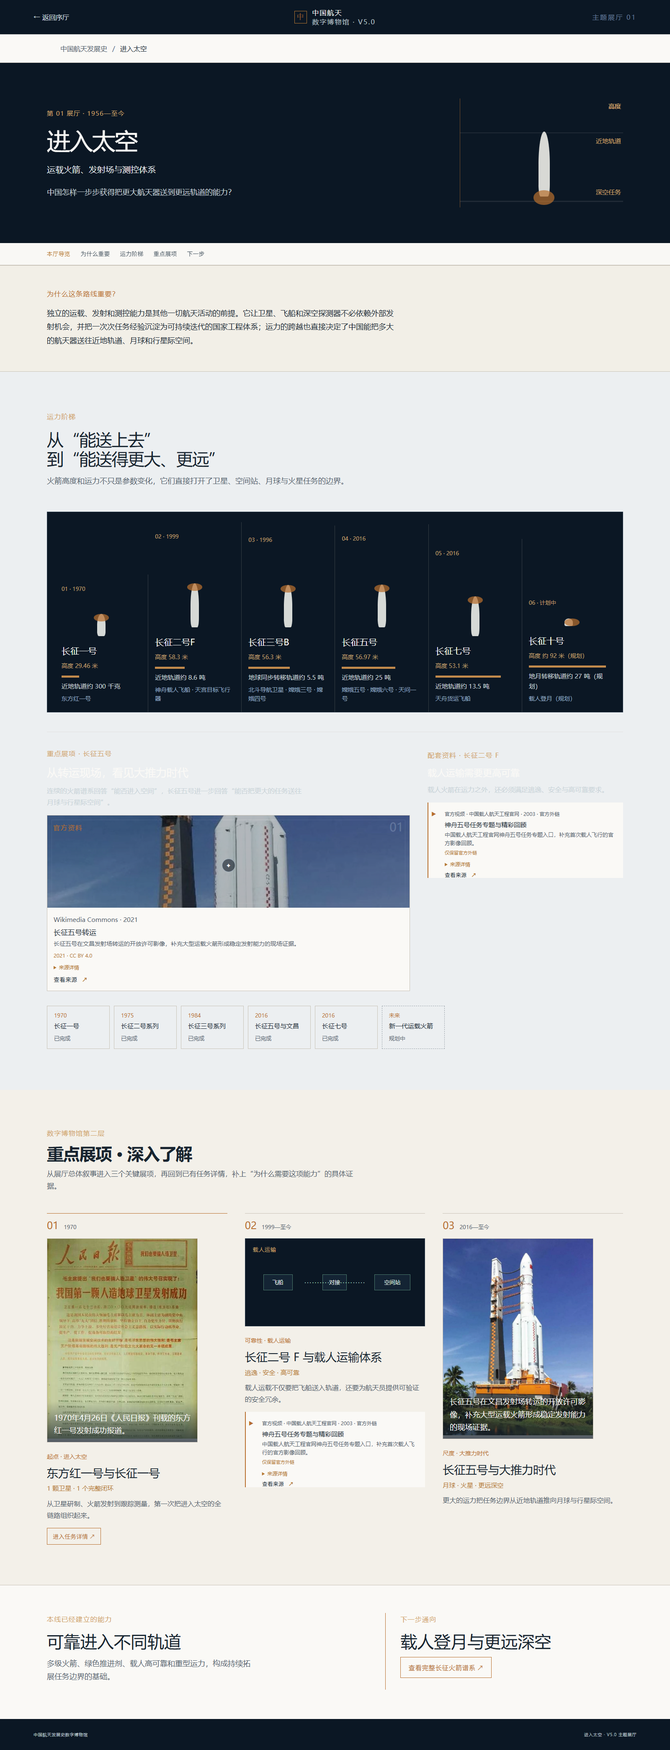
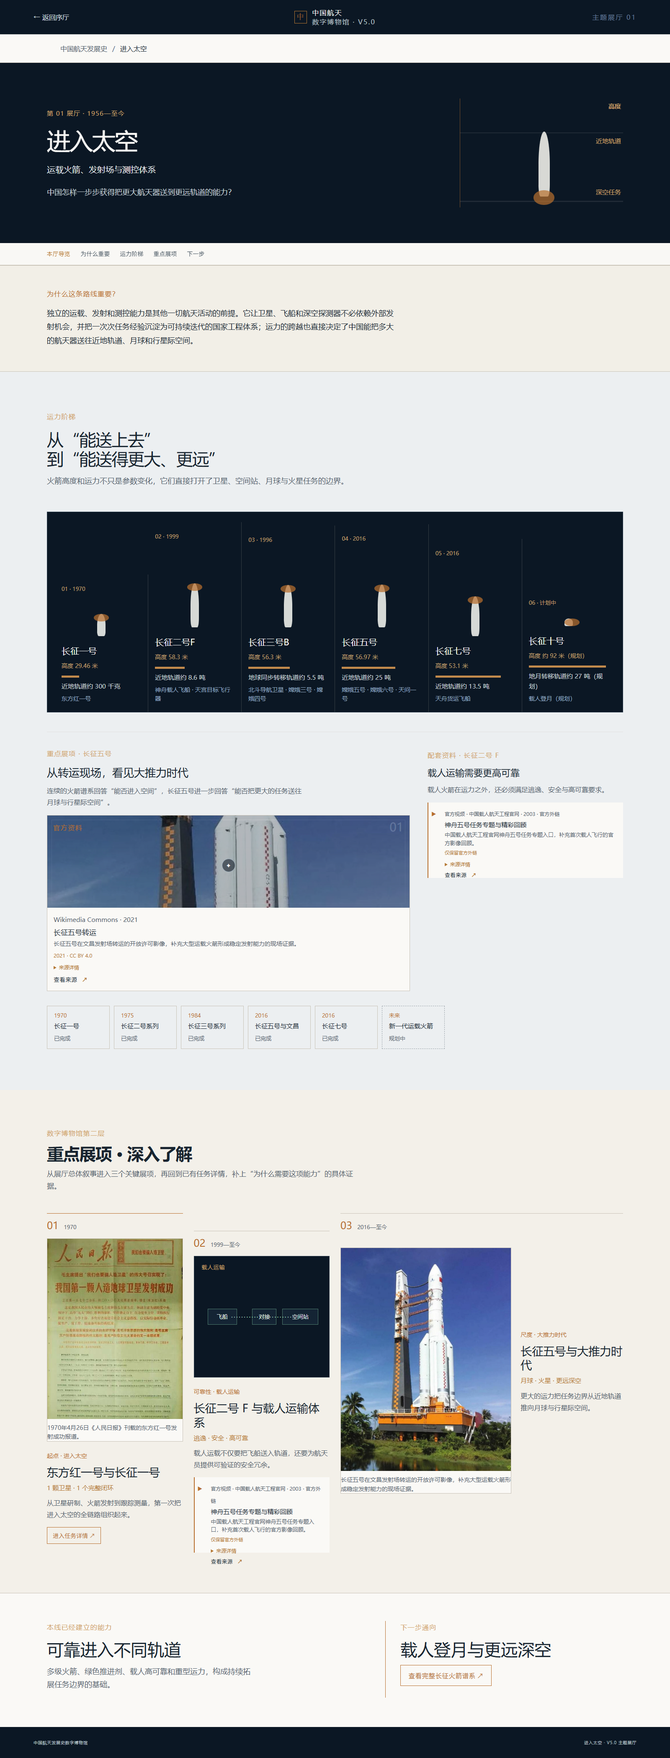
V5.0-F1：完成五厅展品化与视觉层级重构

diff --git a/src/e3.css b/src/e3.css
@@ -318,3 +318,92 @@ button:focus-visible, a:focus-visible { outline-color: var(--museum-bronze); }
   .deep-dive--launch .deep-dive-items, .deep-dive--satellite .deep-dive-items, .deep-dive--human .deep-dive-items, .deep-dive--lunar .deep-dive-items, .deep-dive--planetary .deep-dive-items { grid-template-columns: 1fr; }
   .deep-dive--human .deep-dive-item:nth-child(1) { grid-row: auto; }
 }
+
+/* V5.0-F1：把五厅 Deep Dive 从统一卡片组改为不同的展品构图。 */
+.deep-dive-item .asset-media { width: 100%; min-width: 0; min-height: 0; height: auto; }
+.deep-dive-item .asset-media img { display: block; width: 100%; height: auto; min-height: 0; object-fit: cover; }
+.deep-dive-item .asset-media figcaption { position: static; padding: 10px 0 0; background: none; color: var(--museum-ink-soft); font-size: 14px; line-height: 1.55; }
+.deep-dive-item .deep-dive-schematic { min-height: 240px; }
+.deep-dive-item .deep-dive-copy > p { max-width: 45em; }
+.story-page .asset-media figcaption { position: static; padding: 10px 0 0; background: none; color: var(--museum-ink-soft); font-size: 14px; line-height: 1.55; }
+.grand-story--launch .launch-support-copy h3 { color: var(--museum-ink); }
+.grand-story--launch .launch-support-copy p { color: var(--museum-ink-soft); }
+
+/* 进入太空：小档案 → 中等能力 → 占据半幅的长征五号主展品。 */
+.deep-dive--layout-scale .deep-dive-items { grid-template-columns: repeat(12, minmax(0, 1fr)); gap: 34px 26px; align-items: start; }
+.deep-dive--layout-scale .deep-dive-item:nth-child(1) { grid-column: span 3; }
+.deep-dive--layout-scale .deep-dive-item:nth-child(2) { grid-column: span 3; margin-top: 42px; }
+.deep-dive--layout-scale .deep-dive-item:nth-child(3) { display: grid; grid-template-columns: minmax(0, 1.25fr) minmax(170px, .75fr); grid-column: span 6; gap: 22px; align-items: start; }
+.deep-dive--layout-scale .deep-dive-item:nth-child(3) .deep-dive-meta { grid-column: 1 / -1; }
+.deep-dive--layout-scale .deep-dive-item:nth-child(3) > .asset-media, .deep-dive--layout-scale .deep-dive-item:nth-child(3) > .deep-dive-schematic { grid-column: 1; grid-row: 2; margin-bottom: 0; }
+.deep-dive--layout-scale .deep-dive-item:nth-child(3) .deep-dive-copy { grid-column: 2; grid-row: 2; align-self: center; }
+.deep-dive--layout-scale .deep-dive-item:nth-child(1) .asset-media img { min-height: 230px; }
+.deep-dive--layout-scale .deep-dive-item:nth-child(2) .deep-dive-schematic { min-height: 290px; }
+.deep-dive--layout-scale .deep-dive-item:nth-child(3) .asset-media img { min-height: 410px; }
+
+/* 天基中国：星座关系是入口，云图占更大的横向位置，遥感成为底部主视觉。 */
+.deep-dive--layout-observation .deep-dive-items { grid-template-columns: repeat(12, minmax(0, 1fr)); gap: 38px 28px; }
+.deep-dive--layout-observation .deep-dive-item:nth-child(1) { grid-column: span 4; }
+.deep-dive--layout-observation .deep-dive-item:nth-child(2) { display: grid; grid-template-columns: minmax(0, 1.35fr) minmax(190px, .75fr); grid-column: span 8; gap: 22px; align-items: center; }
+.deep-dive--layout-observation .deep-dive-item:nth-child(2) .deep-dive-meta { grid-column: 1 / -1; }
+.deep-dive--layout-observation .deep-dive-item:nth-child(2) > .deep-dive-schematic { grid-column: 1; grid-row: 2; min-height: 300px; margin-bottom: 0; }
+.deep-dive--layout-observation .deep-dive-item:nth-child(2) .deep-dive-copy { grid-column: 2; grid-row: 2; }
+.deep-dive--layout-observation .deep-dive-item:nth-child(3) { display: grid; grid-template-columns: minmax(260px, .95fr) minmax(0, 1.25fr); grid-column: 1 / -1; gap: 34px; align-items: center; padding-top: 26px; border-top-style: solid; }
+.deep-dive--layout-observation .deep-dive-item:nth-child(3) .deep-dive-meta { grid-column: 1 / -1; }
+.deep-dive--layout-observation .deep-dive-item:nth-child(3) > .asset-media { grid-column: 2; grid-row: 2; margin-bottom: 0; }
+.deep-dive--layout-observation .deep-dive-item:nth-child(3) .deep-dive-copy { grid-column: 1; grid-row: 2; }
+.deep-dive--layout-observation .deep-dive-item:nth-child(3) .asset-media img { min-height: 330px; }
+
+/* 人在太空：三个章节纵向展开，并让视觉位置左—右—全宽变化。 */
+.deep-dive--layout-chapters .deep-dive-items { display: flex; flex-direction: column; gap: 0; }
+.deep-dive--layout-chapters .deep-dive-item { display: grid; grid-template-columns: minmax(120px, .28fr) minmax(220px, .82fr) minmax(240px, 1fr); gap: 28px; width: min(100%, 1080px); padding: 30px 0 42px; }
+.deep-dive--layout-chapters .deep-dive-item:nth-child(1) { align-self: flex-start; }
+.deep-dive--layout-chapters .deep-dive-item:nth-child(2) { align-self: center; width: min(86%, 960px); margin-top: 10px; }
+.deep-dive--layout-chapters .deep-dive-item:nth-child(3) { align-self: flex-end; width: min(100%, 1160px); margin-top: 10px; grid-template-columns: minmax(140px, .3fr) minmax(280px, 1.2fr) minmax(260px, .85fr); }
+.deep-dive--layout-chapters .deep-dive-item > .deep-dive-meta { grid-column: 1; grid-row: 1; align-self: start; }
+.deep-dive--layout-chapters .deep-dive-item > .asset-media, .deep-dive--layout-chapters .deep-dive-item > .deep-dive-schematic { grid-column: 2; grid-row: 1; margin-bottom: 0; }
+.deep-dive--layout-chapters .deep-dive-item > .deep-dive-copy { grid-column: 3; grid-row: 1; align-self: center; }
+.deep-dive--layout-chapters .deep-dive-item:nth-child(2) > .deep-dive-schematic { grid-column: 3; }
+.deep-dive--layout-chapters .deep-dive-item:nth-child(2) > .deep-dive-copy { grid-column: 2; }
+.deep-dive--layout-chapters .deep-dive-item:nth-child(3) > .asset-media { grid-column: 2; }
+.deep-dive--layout-chapters .deep-dive-item:nth-child(3) > .deep-dive-copy { grid-column: 3; }
+.deep-dive--layout-chapters .deep-dive-item:nth-child(1) .asset-media img { min-height: 360px; }
+.deep-dive--layout-chapters .deep-dive-item:nth-child(3) .asset-media img { min-height: 300px; }
+
+/* 奔向月球：把三个展项排成带高度差的绕—落—回路线。 */
+.deep-dive--layout-route .deep-dive-items { position: relative; grid-template-columns: repeat(3, minmax(0, 1fr)); gap: 34px; }
+.deep-dive--layout-route .deep-dive-items::before { content: ''; position: absolute; left: 4%; right: 4%; top: 49px; border-top: 1px solid color-mix(in srgb, var(--hall-color) 48%, transparent); }
+.deep-dive--layout-route .deep-dive-item { position: relative; background: transparent; }
+.deep-dive--layout-route .deep-dive-item:nth-child(1) { padding-right: 24px; }
+.deep-dive--layout-route .deep-dive-item:nth-child(2) { margin-top: 72px; padding: 16px 24px 0; border-left: 1px solid var(--museum-line); border-right: 1px solid var(--museum-line); }
+.deep-dive--layout-route .deep-dive-item:nth-child(3) { margin-top: 26px; padding-left: 24px; border-top-style: dashed; }
+.deep-dive--layout-route .deep-dive-item:nth-child(1) .asset-media img { min-height: 230px; }
+.deep-dive--layout-route .deep-dive-item:nth-child(2) .asset-media img { min-height: 310px; }
+.deep-dive--layout-route .deep-dive-item:nth-child(3) .asset-media img { min-height: 360px; }
+
+/* 走向行星：首项铺开旅程，第二项落到表面，第三项退到更远的未来。 */
+.deep-dive--layout-distance .deep-dive-items { grid-template-columns: repeat(12, minmax(0, 1fr)); gap: 42px 28px; }
+.deep-dive--layout-distance .deep-dive-item:nth-child(1) { display: grid; grid-template-columns: minmax(0, 1.45fr) minmax(230px, .72fr); grid-column: 1 / -1; gap: 30px; align-items: center; padding-bottom: 20px; }
+.deep-dive--layout-distance .deep-dive-item:nth-child(1) .deep-dive-meta { grid-column: 1 / -1; }
+.deep-dive--layout-distance .deep-dive-item:nth-child(1) > .asset-media { grid-column: 1; grid-row: 2; margin-bottom: 0; }
+.deep-dive--layout-distance .deep-dive-item:nth-child(1) .deep-dive-copy { grid-column: 2; grid-row: 2; }
+.deep-dive--layout-distance .deep-dive-item:nth-child(2) { grid-column: span 7; }
+.deep-dive--layout-distance .deep-dive-item:nth-child(3) { grid-column: span 5; align-self: end; padding: 30px 0 0 28px; border-left: 1px solid var(--museum-line); border-top: 0; }
+.deep-dive--layout-distance .deep-dive-item:nth-child(1) .asset-media img { min-height: 390px; }
+.deep-dive--layout-distance .deep-dive-item:nth-child(2) .asset-media img { min-height: 310px; }
+.deep-dive--layout-distance .deep-dive-item:nth-child(3) .deep-dive-schematic { min-height: 260px; }
+
+@media (max-width: 800px) {
+  .deep-dive--layout-scale .deep-dive-items, .deep-dive--layout-observation .deep-dive-items, .deep-dive--layout-distance .deep-dive-items { grid-template-columns: 1fr; gap: 34px; }
+  .deep-dive--layout-scale .deep-dive-item:nth-child(1), .deep-dive--layout-scale .deep-dive-item:nth-child(2), .deep-dive--layout-scale .deep-dive-item:nth-child(3), .deep-dive--layout-observation .deep-dive-item:nth-child(1), .deep-dive--layout-observation .deep-dive-item:nth-child(2), .deep-dive--layout-observation .deep-dive-item:nth-child(3), .deep-dive--layout-distance .deep-dive-item:nth-child(1), .deep-dive--layout-distance .deep-dive-item:nth-child(2), .deep-dive--layout-distance .deep-dive-item:nth-child(3) { grid-column: auto; margin-top: 0; padding-left: 0; padding-right: 0; border-left: 0; }
+  .deep-dive--layout-scale .deep-dive-item:nth-child(3), .deep-dive--layout-observation .deep-dive-item:nth-child(2), .deep-dive--layout-observation .deep-dive-item:nth-child(3), .deep-dive--layout-distance .deep-dive-item:nth-child(1) { display: block; }
+  .deep-dive--layout-scale .deep-dive-item:nth-child(3) > .asset-media, .deep-dive--layout-scale .deep-dive-item:nth-child(3) > .deep-dive-schematic, .deep-dive--layout-observation .deep-dive-item:nth-child(2) > .deep-dive-schematic, .deep-dive--layout-observation .deep-dive-item:nth-child(3) > .asset-media, .deep-dive--layout-distance .deep-dive-item:nth-child(1) > .asset-media { margin-bottom: 18px; }
+  .deep-dive--layout-chapters .deep-dive-item { display: block; width: 100%; margin: 0; padding: 24px 0 34px; }
+  .deep-dive--layout-chapters .deep-dive-item > .deep-dive-meta, .deep-dive--layout-chapters .deep-dive-item > .asset-media, .deep-dive--layout-chapters .deep-dive-item > .deep-dive-schematic, .deep-dive--layout-chapters .deep-dive-item > .deep-dive-copy { display: block; }
+  .deep-dive--layout-chapters .deep-dive-item > .asset-media, .deep-dive--layout-chapters .deep-dive-item > .deep-dive-schematic { margin-bottom: 18px; }
+  .deep-dive--layout-route .deep-dive-items { grid-template-columns: 1fr; gap: 0; }
+  .deep-dive--layout-route .deep-dive-items::before { left: 18px; right: auto; top: 38px; bottom: 38px; border-top: 0; border-left: 1px solid color-mix(in srgb, var(--hall-color) 48%, transparent); }
+  .deep-dive--layout-route .deep-dive-item:nth-child(1), .deep-dive--layout-route .deep-dive-item:nth-child(2), .deep-dive--layout-route .deep-dive-item:nth-child(3) { margin: 0; padding: 22px 0 34px 42px; border: 0; }
+  .deep-dive--layout-route .deep-dive-item:nth-child(1) .asset-media img, .deep-dive--layout-route .deep-dive-item:nth-child(2) .asset-media img, .deep-dive--layout-route .deep-dive-item:nth-child(3) .asset-media img, .deep-dive--layout-distance .deep-dive-item:nth-child(1) .asset-media img { min-height: 0; }
+  .deep-dive--layout-distance .deep-dive-item:nth-child(3) { align-self: auto; }
+}

diff --git a/src/components/GrandHallStories/LaunchCapabilityStory.jsx b/src/components/GrandHallStories/LaunchCapabilityStory.jsx
@@ -16,7 +16,7 @@ export default function LaunchCapabilityStory({ hall, nodes, onOpenMission }) {
       <StoryTour items={[{ id: 'story-why', label: '为什么重要' }, { id: 'launch-core', label: '运力阶梯' }, { id: 'deep-dive', label: '重点展项' }, { id: 'story-next', label: '下一步' }]} />
       <section className="story-why" id="story-why"><span className="section-kicker">为什么这条路线重要？</span><p>{hall.hallWhyItMatters}</p></section>
       <section className="grand-story grand-story--launch" id="launch-core"><div className="story-heading"><span className="section-kicker">运力阶梯</span><h2>从“能送上去”<br />到“能送得更大、更远”</h2><p>火箭高度和运力不只是参数变化，它们直接打开了卫星、空间站、月球与火星任务的边界。</p></div><div className="launch-ladder">{selected.map((rocket, index) => <article className={`launch-step launch-step-${index + 1}`} key={rocket.name}><span>{String(index + 1).padStart(2, '0')} · {rocket.firstFlight}</span><div className="rocket-silhouette" style={{ '--rocket-height': `${Math.max(44, Math.min(175, Number.parseFloat(rocket.height) * 1.8))}px` }} aria-hidden="true" /><h3>{rocket.name}</h3><small>高度 {rocket.height}</small><div className="payload-bar" style={{ '--payload-width': `${22 + index * 15}%` }} /><p>{rocket.payload}</p><small>{rocket.missions.join(' · ')}</small></article>)}</div><div className="launch-support-media" id="launch-evidence"><div className="launch-support-copy"><span className="section-kicker">重点展项 · 长征五号</span><h3>从转运现场，看见大推力时代</h3><p>连续的火箭谱系回答“能否进入空间”，长征五号进一步回答“能否把更大的任务送往月球与行星际空间”。</p><StoryMedia ids={['open-long-march-5-rollout-2021']} mode="feature" color={hall.color} /></div><div className="launch-support-copy launch-support-copy--compact"><span className="section-kicker">配套资料 · 长征二号 F</span><h3>载人运输需要更高可靠</h3><p>载人火箭在运力之外，还必须满足逃逸、安全与高可靠要求。</p><StoryMedia ids={['media-human-shenzhou5-flight-review']} mode="compact" color={hall.color} /></div></div><div className="story-node-strip">{nodes.filter((node) => ['长征一号', '长征二号系列', '长征三号系列', '长征五号与文昌', '长征七号', '新一代运载火箭'].includes(node.name)).map((node) => <span className={`story-node story-node--${node.status}`} key={node.id}><b>{node.year}</b>{node.name}<em>{node.status === 'planned' ? '规划中' : '已完成'}</em></span>)}</div></section>
-      <DeepDiveSection variant="launch" hall={hall} onOpenMission={onOpenMission} items={[{ year: '1970', label: '起点 · 进入太空', title: '东方红一号与长征一号', metric: '1 颗卫星 · 1 个完整闭环', description: '从卫星研制、火箭发射到跟踪测量，第一次把进入太空的全链路组织起来。', assetId: 'curated-dongfanghong-1-news-1970', missionId: 'origin-one' }, { year: '1999—至今', label: '可靠性 · 载人运输', title: '长征二号 F 与载人运输体系', metric: '逃逸 · 安全 · 高可靠', description: '载人运载不仅要把飞船送入轨道，还要为航天员提供可验证的安全冗余。', diagram: 'rendezvous', diagramLabel: '载人运输', mediaIds: ['media-human-shenzhou5-flight-review'] }, { year: '2016—至今', label: '尺度 · 大推力时代', title: '长征五号与大推力时代', metric: '月球 · 火星 · 更远深空', description: '更大的运力把任务边界从近地轨道推向月球与行星际空间。', assetId: 'open-long-march-5-rollout-2021' }]} />
+      <DeepDiveSection variant="launch" layout="scale" hall={hall} onOpenMission={onOpenMission} items={[{ year: '1970', label: '起点 · 进入太空', title: '东方红一号与长征一号', metric: '1 颗卫星 · 1 个完整闭环', description: '从卫星研制、火箭发射到跟踪测量，第一次把进入太空的全链路组织起来。', assetId: 'curated-dongfanghong-1-news-1970', missionId: 'origin-one' }, { year: '1999—至今', label: '可靠性 · 载人运输', title: '长征二号 F 与载人运输体系', metric: '逃逸 · 安全 · 高可靠', description: '载人运载不仅要把飞船送入轨道，还要为航天员提供可验证的安全冗余。', diagram: 'rendezvous', diagramLabel: '载人运输', mediaIds: ['media-human-shenzhou5-flight-review'] }, { year: '2016—至今', label: '尺度 · 大推力时代', title: '长征五号与大推力时代', metric: '月球 · 火星 · 更远深空', description: '更大的运力把任务边界从近地轨道推向月球与行星际空间。', assetId: 'open-long-march-5-rollout-2021' }]} />
       <section className="story-tail story-tail--launch" id="story-next"><div><span className="section-kicker">本线已经建立的能力</span><h2>可靠进入不同轨道</h2><p>多级火箭、绿色推进剂、载人高可靠和重型运力，构成持续拓展任务边界的基础。</p></div><div className="story-tail-link"><span className="section-kicker">下一步通向</span><h2>载人登月与更远深空</h2><button type="button" onClick={() => setShowFullGallery((value) => !value)}>{showFullGallery ? '收起完整火箭谱系' : '查看完整长征火箭谱系'} ↗</button></div></section>
       {showFullGallery ? <div className="story-gallery-drawer"><RocketGallery /></div> : null}
     </div>

diff --git a/src/components/GrandHallStories/PlanetaryScaleStory.jsx b/src/components/GrandHallStories/PlanetaryScaleStory.jsx
@@ -12,7 +12,7 @@ export default function PlanetaryScaleStory({ hall, nodes, missions, onOpenMissi
       <StoryTour items={[{ id: 'story-why', label: '为什么重要' }, { id: 'planetary-core', label: '行星际尺度' }, { id: 'deep-dive', label: '绕 · 落 · 巡' }, { id: 'story-next', label: '下一步' }]} />
       <section className="story-why" id="story-why"><span className="section-kicker">为什么这条路线重要？</span><p>{hall.hallWhyItMatters}</p></section>
       <section className="grand-story grand-story--planetary" id="planetary-core"><div className="story-heading"><span className="section-kicker">行星际尺度</span><h2>离开地球，穿越<br />七个月级的行星际飞行</h2><p>这是一条概念尺度示意，非真实比例：距离拉远，通信时延增加，任务需要更多自主导航和环境判断。</p></div><div className="planetary-distance" aria-label="从地球到火星的概念距离示意"><div className="distance-earth"><i />地球</div><div className="distance-moon"><span />月球轨道</div><div className="distance-flight"><b>约七个月级</b><small>地火转移 · 中途修正 · 深空测控</small></div><div className="distance-mars"><i />火星</div><div className="distance-beyond">更远深空</div></div><div className="planetary-anchor-grid" id="planetary-evidence"><article><div><AssetMedia asset={getAssetById('curated-tianwen-206aa3f3bc23')} label="天问一号与火星合影" /><small className="story-media-meta">维基共享资源 / 中国国家航天局供图 · 2021 · 真实任务影像</small></div><div><span>绕 · 火星捕获</span><h3>天问一号</h3><p>完成从地火转移到火星环绕的深空导航。</p><StoryMedia ids={['open-tianwen1-launch-2020']} mode="feature" color={hall.color} /></div></article><article><div><AssetMedia asset={getAssetById('curated-tianwen-16526f52a3ea')} label="祝融号与着陆平台" /><small className="story-media-meta">公开任务影像 · 2021 · 火星表面影像</small></div><div><span>落 · 巡 · 火星表面工作</span><h3>祝融号</h3><p>在乌托邦平原着陆并开展巡视探测。</p><StoryMedia ids={['media-planetary-tianwen-landing-series']} mode="inline" color={hall.color} /><StoryMedia ids={['media-zhurong-motion']} mode="inline" color={hall.color} /></div></article></div>{mission ? <button className="story-mission-link" type="button" onClick={() => onOpenMission(mission.id)}>进入天问一号任务现场 ↗</button> : null}<div className="planetary-future">{nodes.filter((node) => node.status === 'planned').map((node) => <span className="story-node story-node--planned" key={node.id}><b>{node.year}</b>{node.name}<em>规划中</em></span>)}</div></section>
-      <DeepDiveSection variant="planetary" hall={hall} onOpenMission={onOpenMission} items={[{ year: '2020—2021', label: '绕 · 地火转移', title: '天问一号：绕、着、巡', metric: '一次任务完成三步', description: '在更远距离和更长时延条件下，完成转移、捕获、着陆与巡视的连续任务。', assetId: 'curated-tianwen-206aa3f3bc23', mediaIds: ['media-planetary-tianwen-landing-series'], missionId: 'tianwen' }, { year: '2021', label: '巡 · 火星表面工作', title: '祝融号', metric: '自主巡视 · 环境探测', description: '火星车需要在通信间歇中完成移动、避障、观测和状态判断。', assetId: 'curated-tianwen-16526f52a3ea', mediaIds: ['media-zhurong-motion'] }, { year: '下一阶段', label: '距离 · 自主 · 深空测控', title: '下一阶段行星际探索', metric: '更远目标 · 更长等待', description: '小行星、火星采样返回和更远太阳系任务，将把自主导航与深空测控推向更长时间尺度。', diagram: 'deep-space', diagramLabel: '从地月到行星际', mediaIds: ['official-tianwen-science-images-2021'] }]} />
+      <DeepDiveSection variant="planetary" layout="distance" hall={hall} onOpenMission={onOpenMission} items={[{ year: '2020—2021', label: '绕 · 地火转移', title: '天问一号：绕、着、巡', metric: '一次任务完成三步', description: '在更远距离和更长时延条件下，完成转移、捕获、着陆与巡视的连续任务。', assetId: 'curated-tianwen-206aa3f3bc23', mediaIds: ['media-planetary-tianwen-landing-series'], missionId: 'tianwen' }, { year: '2021', label: '巡 · 火星表面工作', title: '祝融号', metric: '自主巡视 · 环境探测', description: '火星车需要在通信间歇中完成移动、避障、观测和状态判断。', assetId: 'curated-tianwen-16526f52a3ea', mediaIds: ['media-zhurong-motion'] }, { year: '下一阶段', label: '距离 · 自主 · 深空测控', title: '下一阶段行星际探索', metric: '更远目标 · 更长等待', description: '小行星、火星采样返回和更远太阳系任务，将把自主导航与深空测控推向更长时间尺度。', diagram: 'deep-space', diagramLabel: '从地月到行星际', mediaIds: ['official-tianwen-science-images-2021'] }]} />
       <section className="story-tail story-tail--planetary" id="story-next"><div><span className="section-kicker">本线已经建立的能力</span><h2>一次任务完成绕、落、巡</h2></div><div><span className="section-kicker">下一站在哪里</span><p>小行星、火星采样返回，以及更远的太阳系。</p></div></section>
     </div>
   )

diff --git a/src/components/GrandHallStories/LunarExplorationStory.jsx b/src/components/GrandHallStories/LunarExplorationStory.jsx
@@ -14,7 +14,7 @@ export default function LunarExplorationStory({ hall, nodes, missions, onOpenMis
       <StoryTour items={[{ id: 'story-why', label: '为什么重要' }, { id: 'lunar-core', label: '绕 · 落 · 回' }, { id: 'deep-dive', label: '月背与返回' }, { id: 'story-next', label: '下一步' }]} />
       <section className="story-why" id="story-why"><span className="section-kicker">为什么这条路线重要？</span><p>{hall.hallWhyItMatters}</p></section>
       <section className="grand-story grand-story--lunar" id="lunar-core"><div className="story-heading"><span className="section-kicker">主能力路线</span><h2>绕 → 落 → 回，<br />月背从侧面突破</h2><p>月球探测不是四个并列目标，而是一条逐步增加难度的能力链；月背探测则在中继通信和自主控制上打开新的侧支。</p></div><div className="lunar-main-route">{stages.map(([stage, title, year, description, mediaId]) => <article key={stage}><b>{stage}</b><span /><time>{year}</time><h3>{title}</h3><p>{description}</p>{mediaId ? <StoryMedia ids={[mediaId]} mode="inline" color={hall.color} /> : null}</article>)}<div className="lunar-side-branch" id="lunar-evidence"><span>月背突破</span><strong>嫦娥四号 · 首次月背软着陆</strong><StoryMedia ids={['media-lunar-change6-sample-process']} mode="inline" color={hall.color} /><strong>嫦娥六号 · 首次月背采样返回</strong></div></div><div className="lunar-images"><div><AssetMedia asset={getAssetById('collected-chang-e-350bd2395f82')} label="嫦娥四号月球背面全景影像" /><small className="story-media-meta">公开任务影像 · 2019 · 月背全景</small></div><div><AssetMedia asset={getAssetById('asset-change-6')} label="嫦娥六号月背采样任务现场" /><small className="story-media-meta">中国国家航天局 · 2024 · 真实任务影像</small></div></div><div className="lunar-future-path"><span>2024</span><b>嫦娥六号</b><i /><span>未来</span><strong>嫦娥七号 · 嫦娥八号 · 国际月球科研站</strong></div>{mission ? <button className="story-mission-link" type="button" onClick={() => onOpenMission(mission.id)}>进入嫦娥任务档案 ↗</button> : null}<div className="story-node-strip">{nodes.filter((node) => ['嫦娥一号', '嫦娥三号', '嫦娥四号', '嫦娥五号', '嫦娥六号'].includes(node.name)).map((node) => <span className="story-node" key={node.id}><b>{node.year}</b>{node.name}</span>)}</div></section>
-      <DeepDiveSection variant="lunar" hall={hall} onOpenMission={onOpenMission} items={[{ year: '2007', label: '绕 · 获取全球月面', title: '嫦娥一号：绕', metric: '进入绕月轨道', description: '先把月球看完整，建立地月转移、月球捕获和绕月遥感的第一段能力。', assetId: 'collected-chang-e-b13ef29ef990', missionId: 'chang-e', mediaIds: ['media-change5-topic'] }, { year: '2013—2019', label: '落 · 月背需要中继', title: '嫦娥三 / 四号：落与月背', metric: '软着陆 · 巡视 · 中继通信', description: '月背无法直接看到地球，鹊桥中继让着陆器、巡视器与地面保持通信链路。', assetId: 'collected-chang-e-350bd2395f82', mediaIds: ['media-lunar-change6-sample-process'] }, { year: '2020—2024', label: '回 · 采样返回', title: '嫦娥五 / 六号：采样返回', metric: '世界首次月背采样返回', description: '采样、起飞、月轨交会与返回把月面操作推进到完整的地外往返任务。', assetId: 'asset-change-6', mediaIds: ['media-lunar-change6-sample-process'], missionId: 'chang-e' }]} />
+      <DeepDiveSection variant="lunar" layout="route" hall={hall} onOpenMission={onOpenMission} items={[{ year: '2007', label: '绕 · 获取全球月面', title: '嫦娥一号：绕', metric: '进入绕月轨道', description: '先把月球看完整，建立地月转移、月球捕获和绕月遥感的第一段能力。', assetId: 'collected-chang-e-b13ef29ef990', missionId: 'chang-e', mediaIds: ['media-change5-topic'] }, { year: '2013—2019', label: '落 · 月背需要中继', title: '嫦娥三 / 四号：落与月背', metric: '软着陆 · 巡视 · 中继通信', description: '月背无法直接看到地球，鹊桥中继让着陆器、巡视器与地面保持通信链路。', assetId: 'collected-chang-e-350bd2395f82', mediaIds: ['media-lunar-change6-sample-process'] }, { year: '2020—2024', label: '回 · 采样返回', title: '嫦娥五 / 六号：采样返回', metric: '世界首次月背采样返回', description: '采样、起飞、月轨交会与返回把月面操作推进到完整的地外往返任务。', assetId: 'asset-change-6', mediaIds: ['media-lunar-change6-sample-process'], missionId: 'chang-e' }]} />
       <section className="story-tail story-tail--lunar" id="story-next"><div><span className="section-kicker">本线已经建立的能力</span><h2>从月球探测到月球科研站</h2></div><div><span className="section-kicker">下一步通向</span><p>持续探测月球南极，并为载人登月积累能力。</p></div></section>
     </div>
   )

diff --git a/src/components/GrandHallStories/HumanSpaceflightStory.jsx b/src/components/GrandHallStories/HumanSpaceflightStory.jsx
@@ -20,7 +20,7 @@ export default function HumanSpaceflightStory({ hall, nodes, missions, onOpenMis
         <div className="human-chapters"><article><span>第一章 · 1992—2002</span><h3>无人验证</h3><p>工程立项，神舟一号至四号完成飞船、返回和系统可靠性验证。</p><b>神舟一号—四号</b></article><article className="human-chapter-feature" id="human-evidence"><div><AssetMedia asset={getAssetById('curated-shenzhou5-yang-liwei-2003')} label="杨利伟在神舟五号飞船内" /><small className="story-media-meta">中国新闻社 · 2003 · 真实任务影像</small><StoryMedia ids={['media-human-shenzhou5-flight-review']} mode="inline" color={hall.color} /></div><div><span>第二章 · 2003—2016</span><h3>人进入太空</h3><p>神舟五号首次载人，神舟七号实现出舱，天宫目标飞行器与飞船完成交会对接。</p>{shenzhou ? <button type="button" onClick={() => onOpenMission(shenzhou.id)}>进入神舟五号任务档案 ↗</button> : null}</div></article><article className="human-chapter-station"><div><AssetMedia asset={getAssetById('curated-tiangong-0e4562ea9470')} label="中国空间站完整组合体" /><small className="story-media-meta">新华社 · 2022—至今 · 真实任务影像</small></div><div><AssetMedia asset={getAssetById('collected-tiangong-754c526f7813')} label="问天实验舱舱内工作场景" /><small className="story-media-meta">公开展品资料 · 2022 · 在轨工作影像</small><StoryMedia ids={['media-human-space-station-video-hub']} mode="inline" color={hall.color} /></div><div><span>第三章 · 2021—至今</span><h3>轨道家园</h3><p>空间站支持长期生活、长期工作和长期实验。</p>{station ? <button type="button" onClick={() => onOpenMission(station.id)}>进入中国空间站任务档案 ↗</button> : null}</div></article></div>
         <div className="human-stage-strip">{nodes.filter((node) => ['神舟五号', '神舟七号', '天宫一号', '天和、问天、梦天', '长期运营'].includes(node.name)).map((node) => <span key={node.id}><b>{node.year}</b>{node.name}</span>)}</div>
       </section>
-      <DeepDiveSection variant="human" hall={hall} onOpenMission={onOpenMission} items={[{ year: '2003', label: '人物 · 首次载人', title: '神舟五号', metric: '21 小时 23 分 · 绕地 14 圈', description: '杨利伟的首次飞行验证了人、船、火箭、测控和返回系统如何共同工作。', assetId: 'curated-shenzhou5-yang-liwei-2003', missionId: 'shenzhou5' }, { year: '2011—2017', label: '阶段 · 交会对接', title: '从靠近到连接', metric: '目标飞行器 · 空间实验室', description: '交会对接把短时飞行变成可扩展的空间设施，为空间站组装和补给建立接口。', diagram: 'rendezvous', diagramLabel: '交会对接', mediaIds: ['media-station-configurations'] }, { year: '2022—至今', label: '生活 · 工作 · 实验', title: '中国空间站', metric: '长期有人驻留', description: '空间站把居住、维修、补给和空间科学实验整合为持续运行的轨道平台。', assetId: 'curated-tiangong-0e4562ea9470', missionId: 'tiangong' }]} />
+      <DeepDiveSection variant="human" layout="chapters" hall={hall} onOpenMission={onOpenMission} items={[{ year: '2003', label: '人物 · 首次载人', title: '神舟五号', metric: '21 小时 23 分 · 绕地 14 圈', description: '杨利伟的首次飞行验证了人、船、火箭、测控和返回系统如何共同工作。', assetId: 'curated-shenzhou5-yang-liwei-2003', missionId: 'shenzhou5' }, { year: '2011—2017', label: '阶段 · 交会对接', title: '从靠近到连接', metric: '目标飞行器 · 空间实验室', description: '交会对接把短时飞行变成可扩展的空间设施，为空间站组装和补给建立接口。', diagram: 'rendezvous', diagramLabel: '交会对接', mediaIds: ['media-station-configurations'] }, { year: '2022—至今', label: '生活 · 工作 · 实验', title: '中国空间站', metric: '长期有人驻留', description: '空间站把居住、维修、补给和空间科学实验整合为持续运行的轨道平台。', assetId: 'curated-tiangong-0e4562ea9470', missionId: 'tiangong' }]} />
       <section className="story-tail story-tail--human" id="story-next"><div><span className="section-kicker">本线已经建立的能力</span><h2>长期有人照料的轨道平台</h2></div><div><span className="section-kicker">下一步通向</span><p>从空间站走向载人月球。</p></div></section>
     </div>
   )

diff --git a/src/components/GrandHallStories/SatelliteNetworkStory.jsx b/src/components/GrandHallStories/SatelliteNetworkStory.jsx
@@ -23,7 +23,7 @@ export default function SatelliteNetworkStory({ hall, nodes, missions, onOpenMis
         <div className="satellite-evidence-grid" id="satellite-evidence"><article><b>导航</b><strong>北斗三号</strong><span>定位、导航、授时进入交通与应急系统。</span><StoryMedia ids={['official-beidou-3-constellation-2020']} mode="compact" color={hall.color} /></article><article><b>气象</b><strong>风云卫星</strong><span>持续观测云图、台风和天气变化。</span><StoryMedia ids={['official-fy4a-cloud-image-2017']} mode="compact" color={hall.color} /></article><article><b>遥感</b><strong>高分工程</strong><span>高分辨率对地观测服务国土与资源管理。</span><StoryMedia ids={['open-gaofen-3-radar-images-2022']} mode="feature" color={hall.color} /></article></div>
         <div className="story-node-strip">{nodes.filter((node) => ['东方红一号', '返回式卫星', '风云气象卫星', '资源与海洋卫星', '高分工程', '北斗三号'].includes(node.name)).map((node) => <span className="story-node" key={node.id}><b>{node.year}</b>{node.name}</span>)}</div>
       </section>
-      <DeepDiveSection variant="satellite" hall={hall} items={[{ year: '2020', label: '导航 · 全球覆盖', title: '北斗三号', metric: '定位 · 导航 · 授时', description: '全球卫星导航系统把时间和位置变成交通、农业、应急可以调用的基础服务。', diagram: 'constellation', diagramLabel: '北斗星座', mediaIds: ['official-beidou-3-constellation-2020'] }, { year: '1988—至今', label: '气象 · 连续观测', title: '风云', metric: '云图 · 台风 · 预报', description: '气象卫星把大范围、连续的云系观测送入天气预报和灾害响应流程。', diagram: 'clouds', diagramLabel: '云图观测', mediaIds: ['official-fy4a-cloud-image-2017'] }, { year: '2010—至今', label: '遥感 · 看见地表', title: '高分', metric: '全天时 · 全天候', description: '雷达遥感不依赖可见光，把海洋、土地与灾害变化转化为可分析的数据。', assetId: 'open-gaofen-3-radar-images-2022' }]} />
+      <DeepDiveSection variant="satellite" layout="observation" hall={hall} items={[{ year: '2020', label: '导航 · 全球覆盖', title: '北斗三号', metric: '定位 · 导航 · 授时', description: '全球卫星导航系统把时间和位置变成交通、农业、应急可以调用的基础服务。', diagram: 'constellation', diagramLabel: '北斗星座', mediaIds: ['official-beidou-3-constellation-2020'] }, { year: '1988—至今', label: '气象 · 连续观测', title: '风云', metric: '云图 · 台风 · 预报', description: '气象卫星把大范围、连续的云系观测送入天气预报和灾害响应流程。', diagram: 'clouds', diagramLabel: '云图观测', mediaIds: ['official-fy4a-cloud-image-2017'] }, { year: '2010—至今', label: '遥感 · 看见地表', title: '高分', metric: '全天时 · 全天候', description: '雷达遥感不依赖可见光，把海洋、土地与灾害变化转化为可分析的数据。', assetId: 'open-gaofen-3-radar-images-2022' }]} />
       <section className="story-tail story-tail--satellite" id="story-next"><div><span className="section-kicker">空间能力如何进入日常生活</span><h2>看得见天气，找得到方向，连得上远方。</h2></div><div><span className="section-kicker">下一步通向</span><p>更高分辨率、更低轨道、更智能的卫星数据服务。</p></div></section>
     </div>
   )

diff --git a/src/components/GrandHallStories/DeepDiveSection.jsx b/src/components/GrandHallStories/DeepDiveSection.jsx
@@ -17,17 +17,17 @@ function DeepDiveVisual({ item, label }) {
   )
 }
 
-export default function DeepDiveSection({ id = 'deep-dive', variant, hall, items, onOpenMission }) {
+export default function DeepDiveSection({ id = 'deep-dive', variant, layout = variant, hall, items, onOpenMission }) {
   return (
-    <section className={`deep-dive deep-dive--${variant}`} id={id}>
+    <section className={`deep-dive deep-dive--${variant} deep-dive--layout-${layout}`} id={id} data-depth="second-layer" aria-labelledby={`${id}-heading`}>
       <div className="deep-dive-heading">
         <span className="section-kicker">数字博物馆第二层</span>
-        <h2>重点展项 · 深入了解</h2>
+        <h2 id={`${id}-heading`}>重点展项 · 深入了解</h2>
         <p>从展厅总体叙事进入三个关键展项，再回到已有任务详情，补上“为什么需要这项能力”的具体证据。</p>
       </div>
       <div className="deep-dive-items">
         {items.slice(0, 3).map((item, index) => (
-          <article className={`deep-dive-item deep-dive-item--${item.kind || (item.assetId ? 'image' : 'diagram')}`} key={item.title}>
+          <article className={`deep-dive-item deep-dive-item--${item.kind || (item.assetId ? 'image' : 'diagram')}`} data-exhibit-index={index + 1} key={item.title}>
             <div className="deep-dive-meta"><b>{String(index + 1).padStart(2, '0')}</b><time>{item.year}</time></div>
             <DeepDiveVisual item={item} label={item.visualLabel || item.title} />
             <div className="deep-dive-copy">

diff --git a/docs/superpowers/plans/2026-08-27-v5.0-f.md b/docs/superpowers/plans/2026-08-27-v5.0-f.md
@@ -1,0 +1,34 @@
+# V5.0-F 数字博物馆展览化执行计划
+
+## 目标
+
+以 V5.0-E4 为基线，不扩大页面数量，不推翻五条主线、五座展厅、GrandHall 路由、五个独立 Story、Deep Dive 第二层和既有媒体来源体系，将五厅重点展项从统一网页卡片推进为有主次、节奏和空间关系的数字博物馆展陈。
+
+## 分轮任务
+
+### F1：五厅展品化与视觉层级重构
+
+- 为五厅 Deep Dive 建立不同的展陈布局：进入太空强调小、中、大尺度；天基中国强调观测图像与网络关系；人在太空改为纵向三幕；奔向月球改为连续路线与月面主视觉；走向行星强调旅程、表面和未来的距离节奏。
+- 调整真实图片、说明文字和来源入口的层级，减少图片上的长文字和等权卡片。
+- 增加可复用的展品编号、展品类型和简短图注语义，保留任务详情入口。
+- 扩展自动截图脚本，保留六张 1600×900 desktop，并增加 390×844 mobile 六张到 `latest/mobile/`。
+- 每项修改后执行 `npm.cmd run build` 与 `npm.cmd run screenshots`，检查 desktop 和 mobile 全部页面。
+
+### F2：影像叙事、轻交互、来源降噪与可访问性
+
+- 将官方视频外链明确标注为“观看官方影像”，继续保持 link-only，不下载大型视频。
+- 检查图片 `alt`、装饰图语义、键盘 focus、来源详情键盘展开和移动端横向导览。
+- 为必要的展品增加轻量 hover、点击展开或锚点状态，不引入大规模粒子、旋转和新 WebGL 项目。
+- 复核官方与开放许可媒体来源；许可不明确的内容保持外链，许可明确的本地素材保留署名与简写许可证。
+- 再次执行构建、desktop/mobile 截图和视觉自检。
+
+### F3：条件性终审
+
+只有 F2 后仍存在明显遮挡、移动端溢出、英文可见标题、来源抢视觉或五厅布局过度相似时才执行；不为满足轮数强行创建。
+
+## 交付与安全边界
+
+- 最终截图归档到 `docs/screenshots/v5.0-f/`，移动端归档到 `docs/screenshots/v5.0-f/mobile/`。
+- 更新中文 README、更新日志、AI 开发日志、F 迭代记录和本提示词档案。
+- 不创建正式 `v5.0` 标签；F 完成后仅在全部自检通过时创建 `v5.0-f` annotated tag。
+- 不执行强制推送、镜像推送、历史重写、旧标签删除、Git LFS 迁移和大型性能专项。
